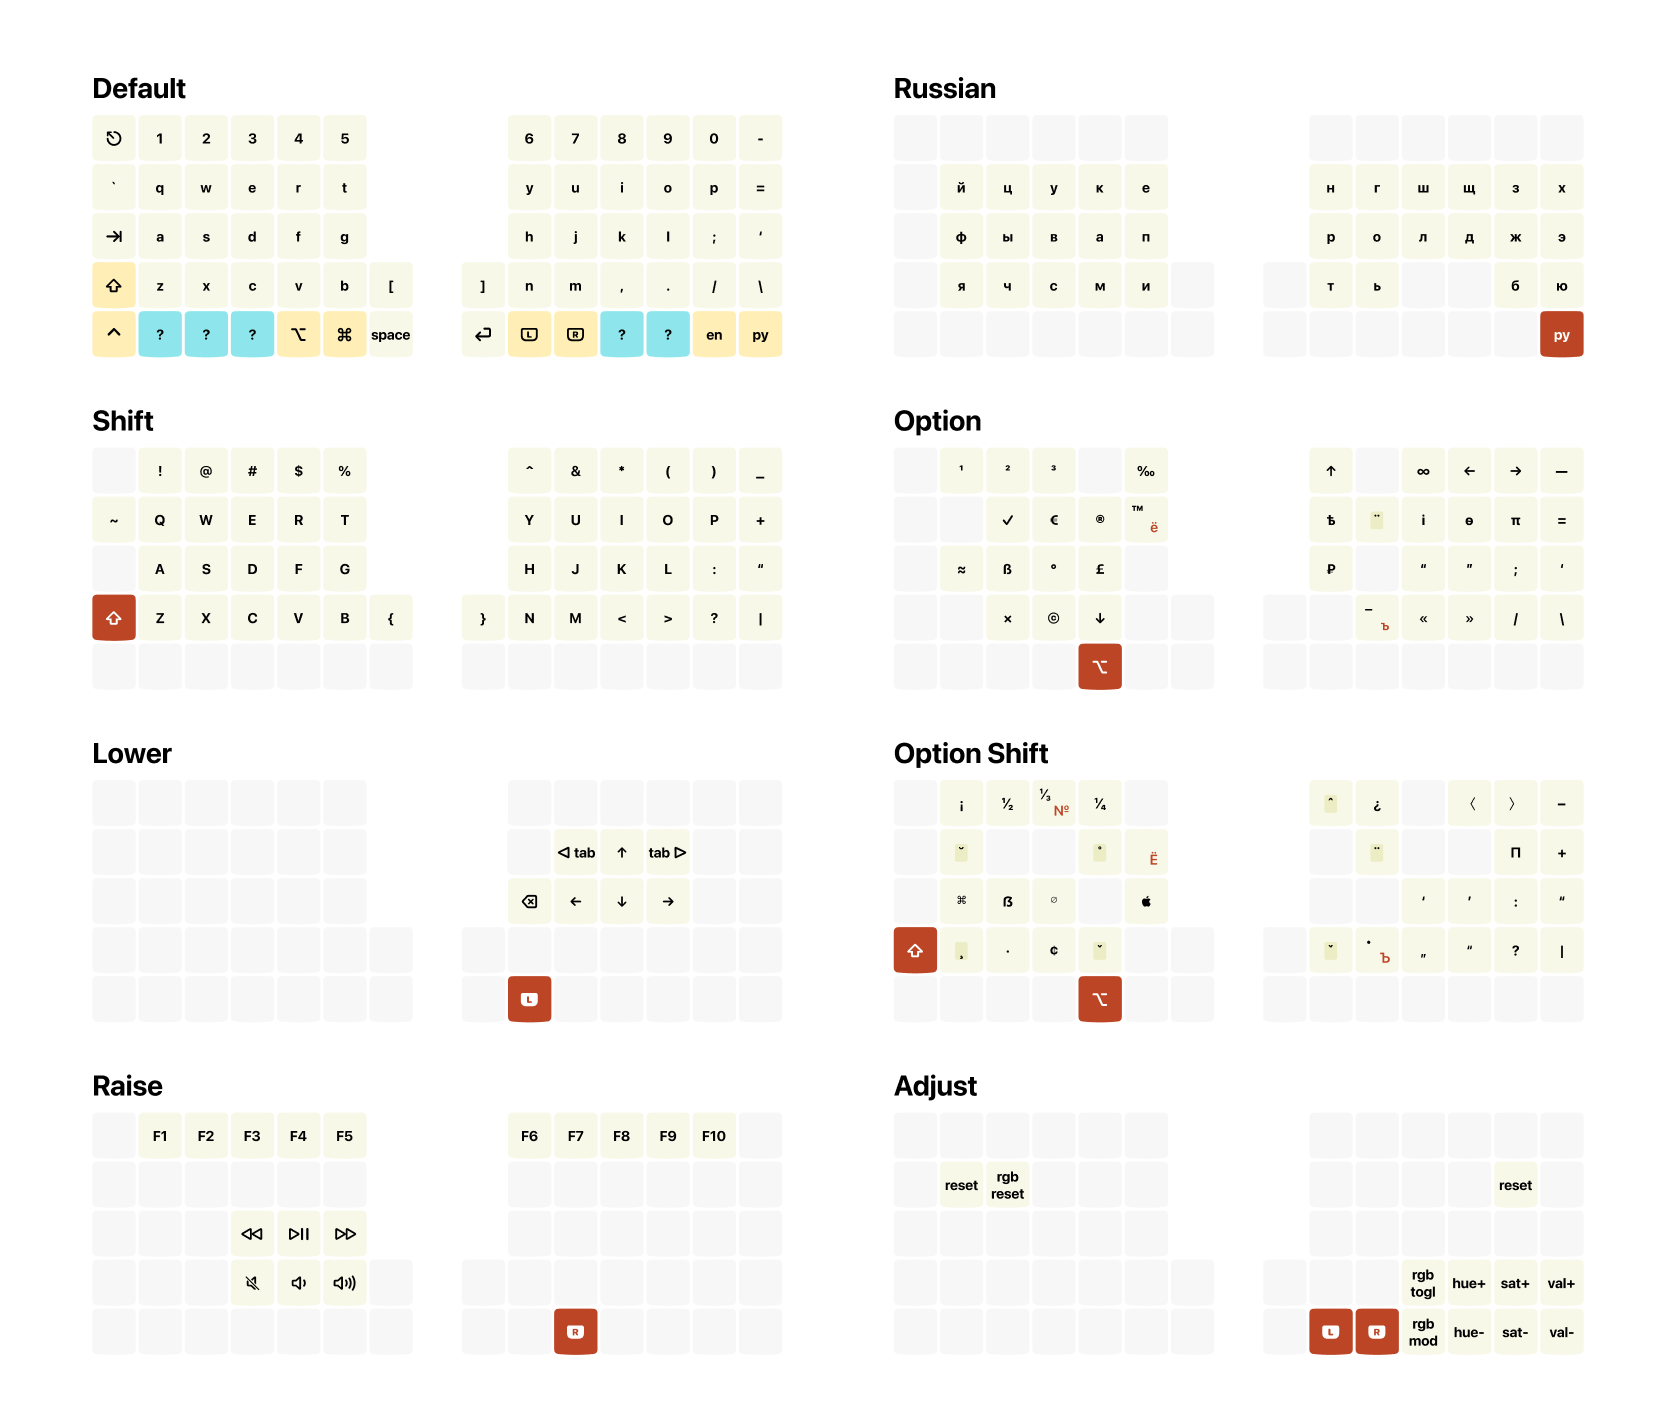
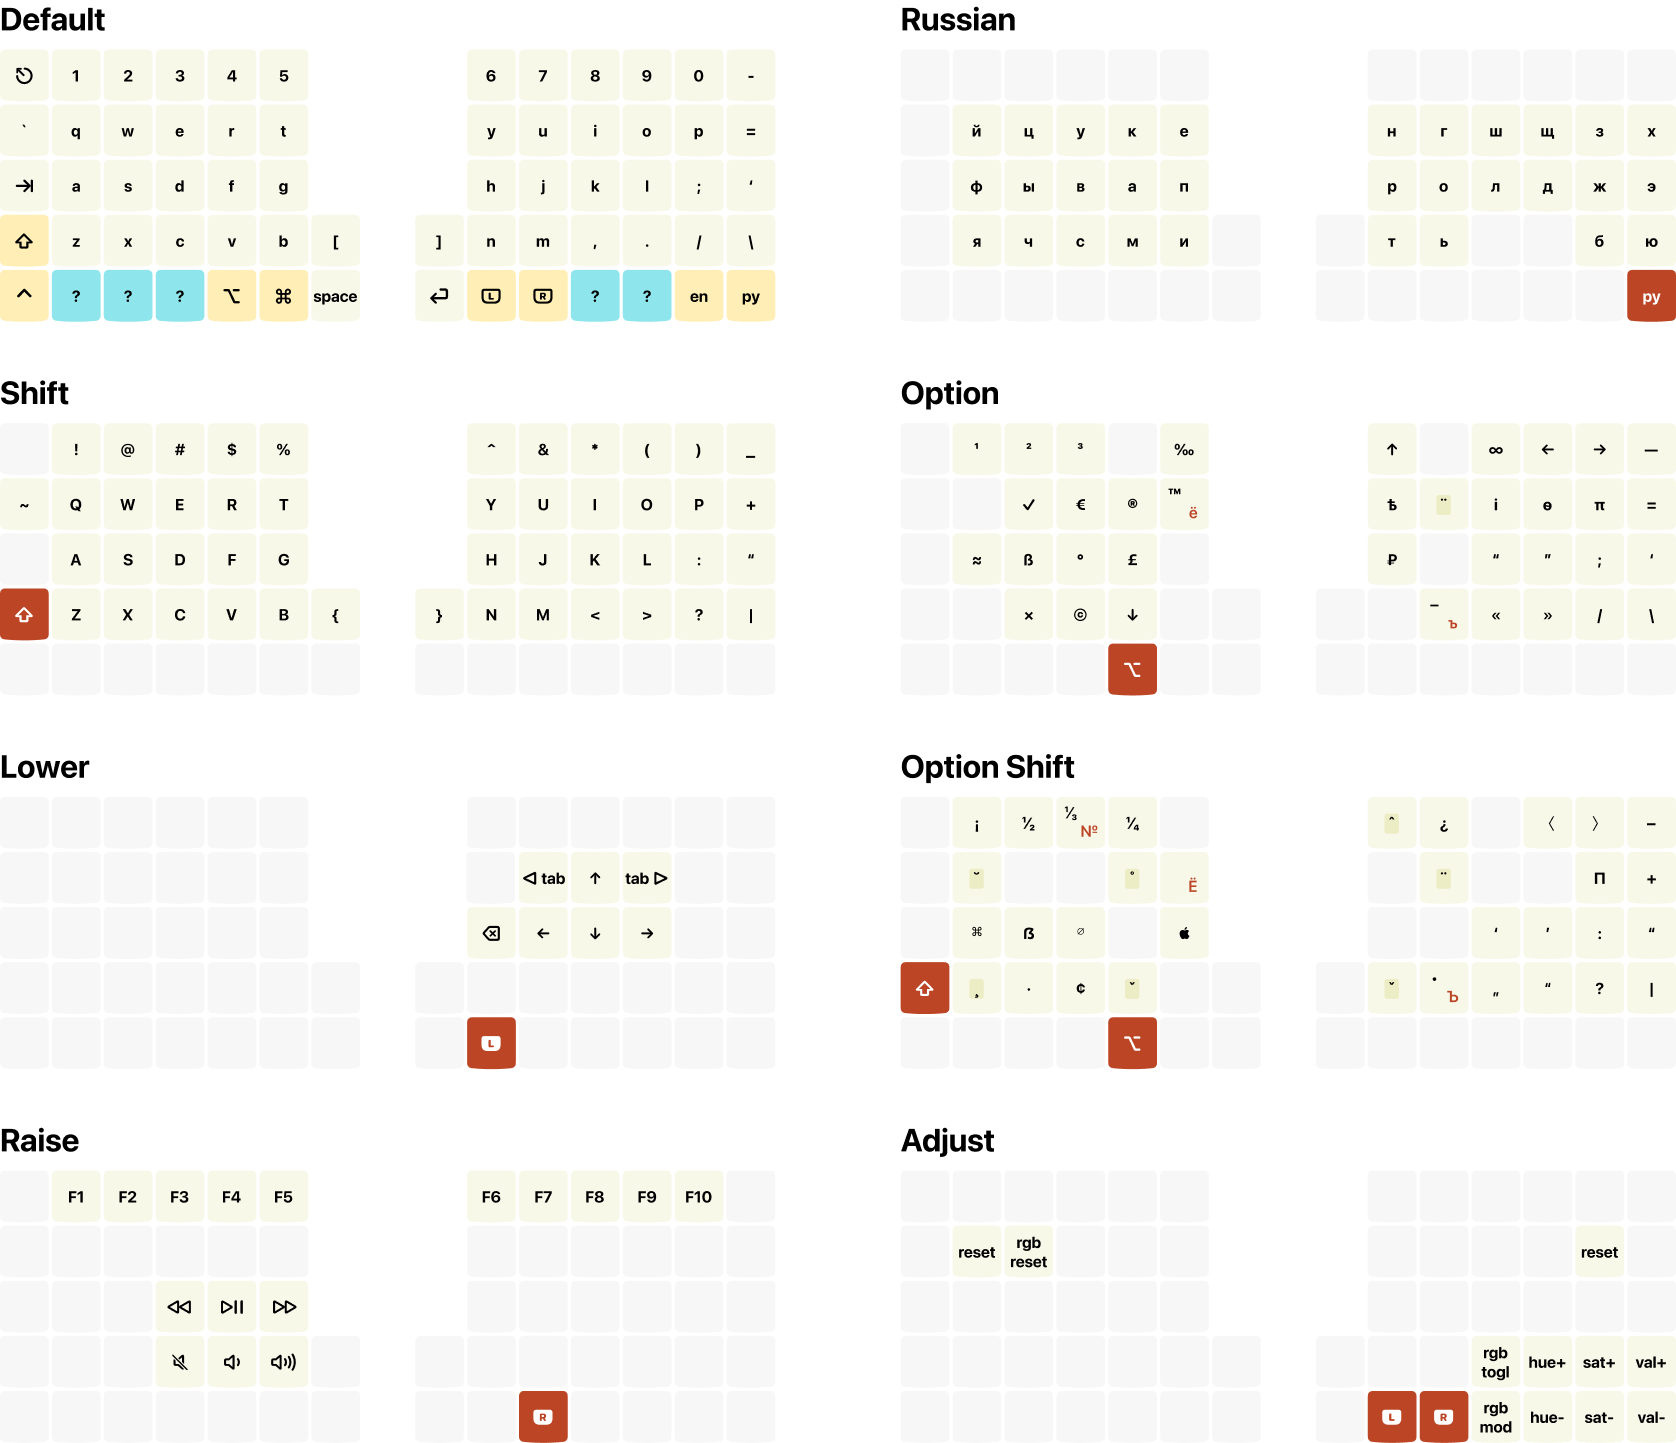
tuned image padding

diff --git a/README.md b/README.md
@@ -1,6 +1,6 @@
 # Keymap & EN/RU layouts for Helix 60% split keyboard
 
-<img src="./cheatsheet.png">
+![](cheatsheet.png)
 
 ## Building keymap
 
@@ -39,7 +39,7 @@ Layout and keymap work together to put keys where I want them, when possible. Th
 
 ## The physical device
 
-<img src="./photo.jpg">
+![](photo.jpg)
 
 ## Where to buy
 
